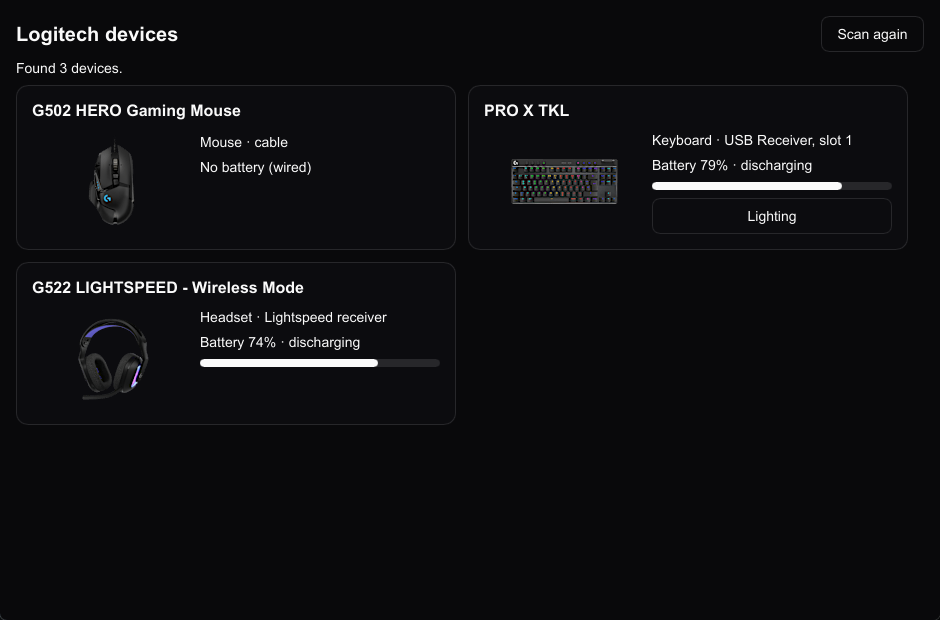
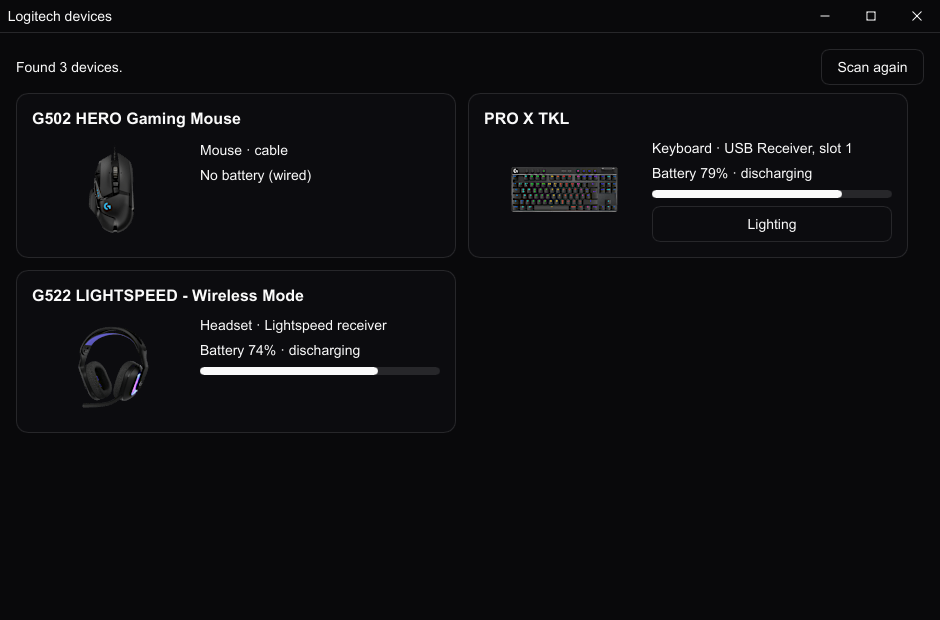
Custom title bar
The main window draws its own frame (AppWindow): the screen's title, a back
button when there's a screen to go back to, and the window buttons. The
screens' header rows move into it. Screenshots in the README show it.

diff --git a/src/Screens/LightingScreen.php b/src/Screens/LightingScreen.php
@@ -2,6 +2,8 @@
 
 namespace App\Screens;
 
+use App\Windows\AppWindow;
+use App\Windows\TitleBar;
 use Logi\Device;
 use Logi\Logi;
 use RageKit\Screen;
@@ -11,7 +13,7 @@ use RageKit\Screen;
  * stays until the keyboard is replugged, G HUB takes over or "Give back" hands the lighting back
  * to the keyboard; nothing is saved on it. Its template is templates/Screens/LightingScreen.rk.
  */
-final class LightingScreen extends Screen
+final class LightingScreen extends Screen implements TitleBar
 {
     /** The swatches, in order; each name is also its style (a colour must be literal in STYLES). */
     public const SWATCHES = ['White', 'Red', 'Orange', 'Yellow', 'Green', 'Cyan', 'Blue', 'Purple', 'Pink'];
@@ -38,7 +40,6 @@ final class LightingScreen extends Screen
         'channel' => ['width' => 48],
     ];
 
-    public string $title = 'Lighting';
     public string $status = '';
     /** the swatch last sent; '' for a custom colour or none yet */
     public string $picked = '';
@@ -49,14 +50,16 @@ final class LightingScreen extends Screen
 
     public function __construct(private ?Device $device = null)
     {
-        if ($device !== null) {
-            $this->title = $device->name . ' lighting';
-        }
     }
 
-    public function goBack(): void
+    public static function window(): string
     {
-        $this->navigator()->back();
+        return AppWindow::class;
+    }
+
+    public function title(): string
+    {
+        return $this->device !== null ? $this->device->name . ' lighting' : 'Lighting';
     }
 
     public function pick(string $swatch): void

diff --git a/src/Screens/HomeScreen.php b/src/Screens/HomeScreen.php
@@ -5,6 +5,8 @@ namespace App\Screens;
 use App\Models\DeviceCard;
 use App\Models\DeviceCards;
 use App\Services\LogitechImages;
+use App\Windows\AppWindow;
+use App\Windows\TitleBar;
 use Logi\Device;
 use Logi\Logi;
 use RageKit\Screen;
@@ -14,7 +16,7 @@ use RageKit\Screen;
  * Logitech's website, how it's connected, and its battery. Its template is
  * templates/Screens/HomeScreen.rk.
  */
-final class HomeScreen extends Screen
+final class HomeScreen extends Screen implements TitleBar
 {
     /** A card's picture box; Logitech's CDN sends pictures shrunk to fit it. */
     public const IMAGE_WIDTH = 160;
@@ -33,6 +35,16 @@ final class HomeScreen extends Screen
     public function __construct()
     {
         $this->devices = new DeviceCards();
+    }
+
+    public static function window(): string
+    {
+        return AppWindow::class;
+    }
+
+    public function title(): string
+    {
+        return 'Logitech devices';
     }
 
     public function shown(): void

diff --git a/src/Windows/AppWindow.php b/src/Windows/AppWindow.php
@@ -1,0 +1,23 @@
+<?php
+
+namespace App\Windows;
+
+use RageKit\Window;
+
+/**
+ * The main window's frame, drawn by the app instead of the OS: a back button when there's a screen
+ * to go back to, the screen's title, and the minimise/maximise/close buttons. Dragging the bar
+ * moves the window. Its template is templates/Windows/AppWindow.rk.
+ */
+final class AppWindow extends Window
+{
+    public static function template(): string
+    {
+        return 'templates/Windows/AppWindow.rk';
+    }
+
+    public static function context(): string
+    {
+        return TitleBar::class;
+    }
+}

diff --git a/src/Windows/TitleBar.php b/src/Windows/TitleBar.php
@@ -1,0 +1,10 @@
+<?php
+
+namespace App\Windows;
+
+/** What AppWindow's title bar needs from the screen it shows. */
+interface TitleBar
+{
+    /** Shown in the title bar. */
+    public function title(): string;
+}

diff --git a/README.md b/README.md
@@ -20,6 +20,8 @@ and sets a LIGHTSYNC keyboard's colour without G HUB.
 - **Sets a keyboard's lighting**: one colour for every key, from a swatch or red/green/blue
   sliders, and "Give back to keyboard" to restore its own effects. Nothing is written to the
   keyboard's memory: a replug or G HUB brings back its saved lighting too.
+- **Draws its own title bar**: the screen's title, a back button on the lighting screen, and the
+  minimise, maximise and close buttons. Drag it to move the window; double-click to maximise.
 
 G HUB may keep running; glite talks to the devices directly.
 
@@ -40,6 +42,7 @@ answers on a worker thread and posts events back to the UI.
 
 | Path | What it is |
 |---|---|
+| `src/Windows/AppWindow.php` | the window's frame: the custom title bar (`templates/Windows/AppWindow.rk`); screens give it their title through `TitleBar` |
 | `src/Screens/HomeScreen.php` | the device list: scans when it opens, one card per device |
 | `src/Screens/LightingScreen.php` | a keyboard's colour: swatches, sliders, give back |
 | `src/Models/` | `DeviceCard` (what a card shows) and `DeviceCards`, the collection the template loops over |
